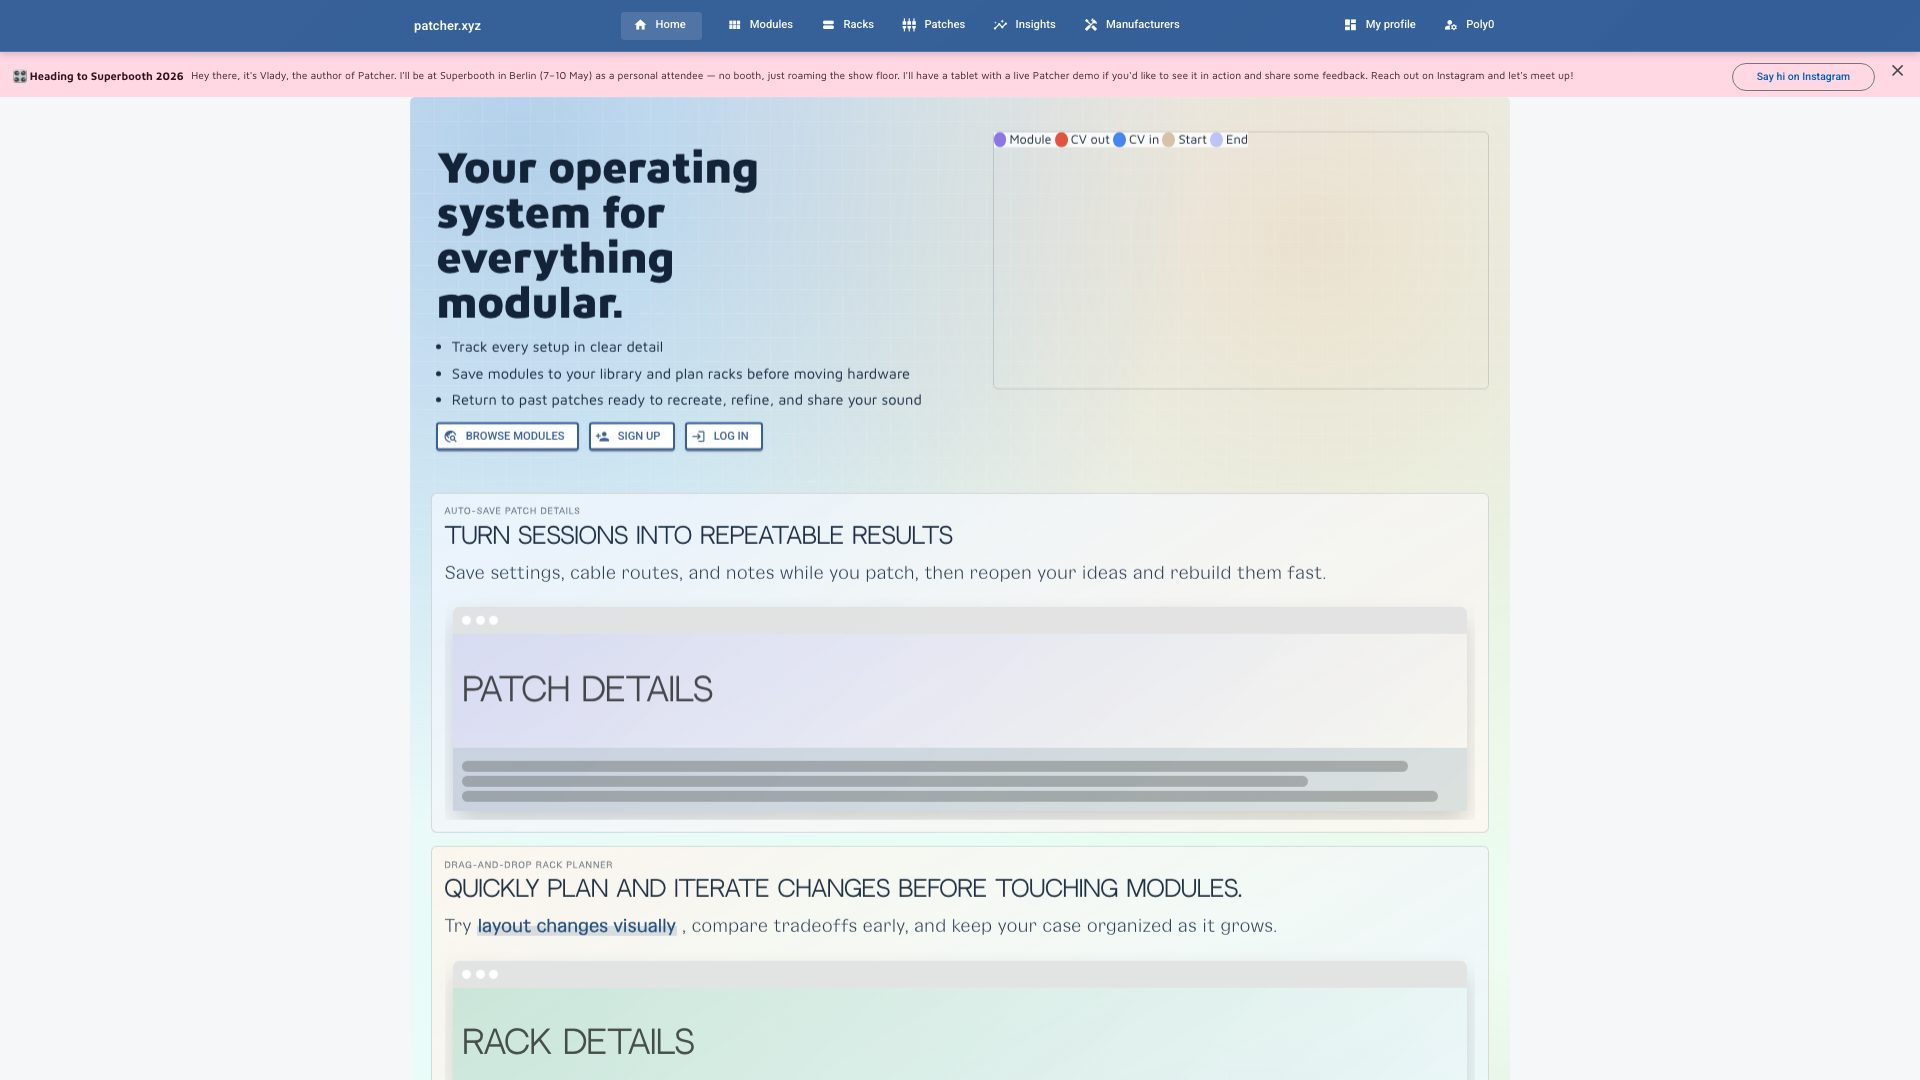
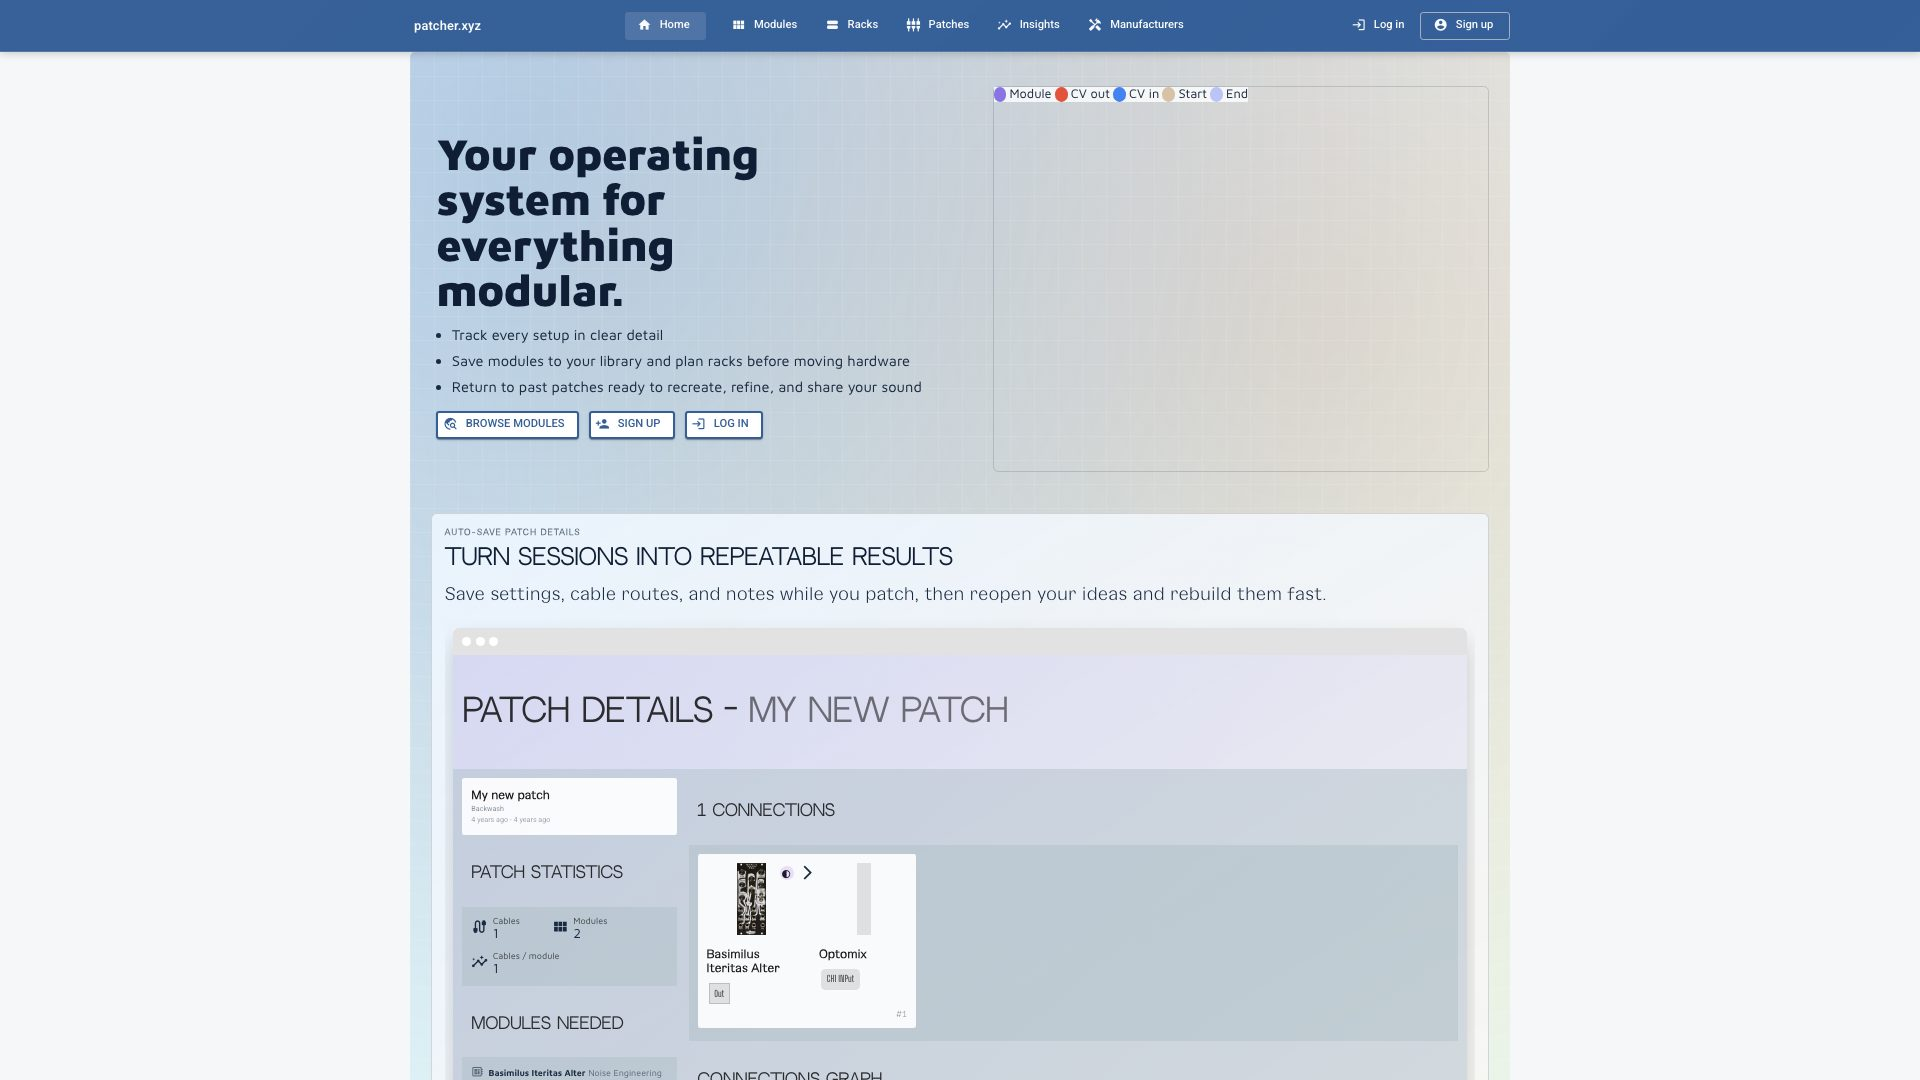
test(e2e): harden major area screenshots

diff --git a/e2e/screenshots/auth-major-area-screenshots.spec.ts b/e2e/screenshots/auth-major-area-screenshots.spec.ts
@@ -2,6 +2,7 @@ import fs from 'node:fs';
 import path from 'node:path';
 import {
   expect,
+  type BrowserContext,
   type Page,
   test
 } from '@playwright/test';
@@ -17,16 +18,143 @@ const DESKTOP_VIEWPORT = {
   height: 1080
 };
 const SCREENSHOT_DELAY_MS = 120;
+const DEFAULT_SUPABASE_URL = 'https://sozmatmywjpstwidzlss.supabase.co';
+const DEFAULT_SUPABASE_ANON_KEY =
+  'eyJhbGciOiJIUzI1NiIsInR5cCI6IkpXVCJ9.eyJyb2xlIjoiYW5vbiIsImlhdCI6MTYxODA4NDU1OCwiZXhwIjoxOTMzNjYwNTU4fQ.3pSLsqyaCAGgISvOrHMt2CIX9hQowty2r8etzMwlpy8';
+const SCREENSHOT_MOTION_STYLE = `
+  *,
+  *::before,
+  *::after {
+    animation-delay: -1ms !important;
+    animation-duration: 1ms !important;
+    animation-iteration-count: 1 !important;
+    transition-delay: 0s !important;
+    transition-duration: 0s !important;
+    caret-color: transparent !important;
+    scroll-behavior: auto !important;
+  }
+`;
+let publicConnectedPatchIdPromise: Promise<number> | undefined;
 
 interface ScreenshotTarget {
   fileName: string;
   prepare: (page: Page) => Promise<void>;
   focusSelector: string;
   settleDelayMs?: number;
+  authenticated?: boolean;
 }
 
 function ensureOutputDir(): void {
   fs.mkdirSync(OUTPUT_DIR, {recursive: true});
+}
+
+async function installScreenshotMode(page: Page): Promise<void> {
+  await page.addInitScript((styleText: string) => {
+    const install = () => {
+      if (document.querySelector('style[data-screenshot-mode="true"]')) {
+        return;
+      }
+
+      const style = document.createElement('style');
+      style.dataset['screenshotMode'] = 'true';
+      style.textContent = styleText;
+      document.head.appendChild(style);
+    };
+
+    if (document.readyState === 'loading') {
+      document.addEventListener('DOMContentLoaded', install, {once: true});
+      return;
+    }
+
+    install();
+  }, SCREENSHOT_MOTION_STYLE);
+}
+
+async function getPublicConnectedPatchId(): Promise<number> {
+  if (!publicConnectedPatchIdPromise) {
+    publicConnectedPatchIdPromise = (async () => {
+      const supabaseUrl = (process.env['SUPABASE_URL'] || DEFAULT_SUPABASE_URL).replace(/\/+$/, '');
+      const supabaseAnonKey = process.env['SUPABASE_ANON_KEY'] || DEFAULT_SUPABASE_ANON_KEY;
+      const query = new URLSearchParams({
+        select: 'patchid,patch:patches!patch_connections_patchid_fkey!inner(id,public)',
+        'patch.public': 'eq.true',
+        limit: '1'
+      });
+
+      const response = await fetch(`${ supabaseUrl }/rest/v1/patch_connections?${ query.toString() }`, {
+        headers: {
+          apikey: supabaseAnonKey,
+          Authorization: `Bearer ${ supabaseAnonKey }`
+        }
+      });
+
+      if (!response.ok) {
+        throw new Error(`Failed to fetch public connected patch (${ response.status })`);
+      }
+
+      const rows = await response.json() as Array<{patchid?: number}>;
+      const patchId = rows.find(row => typeof row.patchid === 'number')?.patchid;
+      if (!patchId) {
+        throw new Error('No public patch with saved connections was found for the home screenshot.');
+      }
+
+      return patchId;
+    })();
+  }
+
+  return publicConnectedPatchIdPromise;
+}
+
+async function setHomeHeroPatch(page: Page, patchId: number): Promise<void> {
+  await page.waitForTimeout(1_200);
+  await page.evaluate((resolvedPatchId: number) => {
+    const ng = (window as {ng?: {getComponent?: (element: Element) => any}}).ng;
+    if (!ng?.getComponent) {
+      throw new Error('Angular debug API unavailable');
+    }
+
+    const homeRoot = document.querySelector('app-home');
+    if (!homeRoot) {
+      throw new Error('Home component not found');
+    }
+
+    const component = ng.getComponent(homeRoot);
+    component.patchDetailDataService.updateSinglePatchData$.next(resolvedPatchId);
+  }, patchId);
+}
+
+async function revealHomeHeroGraph(page: Page): Promise<void> {
+  await page.waitForFunction(
+    () => {
+      const ng = (window as {ng?: {getComponent?: (element: Element) => any}}).ng;
+      const patchGraphHost = document.querySelector('app-home-experience-hero .patch-graph-shell app-patch-graph');
+      const graphHost = document.querySelector('app-home-experience-hero .patch-graph-shell lib-graph');
+      if (!ng?.getComponent || !patchGraphHost || !graphHost) {
+        return false;
+      }
+
+      const patchGraphComponent = ng.getComponent(patchGraphHost);
+      const graphComponent = ng.getComponent(graphHost);
+      const hasGraphData = (patchGraphComponent?.nodes$?.value?.length ?? 0) > 0;
+      if (!hasGraphData || !graphComponent) {
+        return false;
+      }
+
+      graphComponent.loaded = true;
+      graphComponent.cd?.detectChanges?.();
+      graphComponent.renderer?.resize?.();
+      graphComponent.renderer?.refresh?.();
+
+      const invisibleContainer = graphHost.querySelector('.invisible');
+      if (invisibleContainer instanceof HTMLElement) {
+        invisibleContainer.classList.remove('invisible');
+      }
+
+      return !graphHost.textContent?.includes('Graph loading...');
+    },
+    undefined,
+    {timeout: 20_000}
+  );
 }
 
 async function captureViewport(
@@ -67,6 +195,12 @@ async function centerElementOnViewport(page: Page, selector: string): Promise<vo
 async function waitForScreenshotReady(page: Page, focusSelector: string): Promise<void> {
   await page.waitForLoadState('domcontentloaded');
   await expect(page.locator(focusSelector).first()).toBeVisible({timeout: 20_000});
+
+  await page.waitForFunction(
+    () => document.getAnimations().every(animation => animation.playState !== 'running'),
+    undefined,
+    {timeout: 20_000}
+  );
 
   await page.waitForFunction(
     () => !document.fonts || document.fonts.status === 'loaded',
@@ -171,9 +305,16 @@ async function waitForScreenshotReady(page: Page, focusSelector: string): Promis
 }
 
 async function prepareHome(page: Page): Promise<void> {
+  const patchId = await getPublicConnectedPatchId();
   await page.goto('/home');
   await expect(page).toHaveURL(/\/home/, {timeout: 20_000});
   await expect(page.locator('main.home-page h1').first()).toBeVisible({timeout: 20_000});
+  await expect(page.getByRole('link', {name: /sign up/i}).first()).toBeVisible({timeout: 20_000});
+  await expect(page.getByRole('link', {name: /log in/i}).first()).toBeVisible({timeout: 20_000});
+  await expect(page.getByRole('link', {name: /my profile/i})).toHaveCount(0);
+  await setHomeHeroPatch(page, patchId);
+  await expect(page.locator('app-home-experience-hero .patch-graph-shell lib-graph').first()).toBeVisible({timeout: 20_000});
+  await revealHomeHeroGraph(page);
 }
 
 async function prepareModuleBrowser(page: Page): Promise<void> {
@@ -214,6 +355,7 @@ async function prepareUserArea(page: Page): Promise<void> {
   await expect(page.getByRole('textbox', {name: /search modules, racks, patches/i}).first()).toBeVisible({
     timeout: 20_000
   });
+  await expect(page.locator('app-user-modules, app-user-racks, app-user-patches').first()).toBeVisible({timeout: 20_000});
 }
 
 async function prepareRackDetailsEditingCentered(page: Page): Promise<void> {
@@ -222,14 +364,20 @@ async function prepareRackDetailsEditingCentered(page: Page): Promise<void> {
 }
 
 const SCREENSHOT_TARGETS: ScreenshotTarget[] = [
-  {fileName: '01-home.jpg', prepare: prepareHome, focusSelector: 'main.home-page h1'},
+  {
+    fileName: '01-home.jpg',
+    prepare: prepareHome,
+    focusSelector: 'app-home-experience-hero .patch-graph-shell lib-graph',
+    settleDelayMs: 15_000,
+    authenticated: false
+  },
   {fileName: '02-modules.jpg', prepare: prepareModuleBrowser, focusSelector: 'app-module-minimal, app-empty-state'},
   {fileName: '03-module-details.jpg', prepare: prepareModuleDetails, focusSelector: 'app-module-composite'},
   {fileName: '04-patches.jpg', prepare: preparePatchBrowser, focusSelector: 'app-patch-micro, app-empty-state'},
   {fileName: '05-patch-details.jpg', prepare: preparePatchDetailsEditing, focusSelector: 'app-patch-composite'},
   {fileName: '06-racks.jpg', prepare: prepareRackBrowser, focusSelector: 'app-rack-micro, app-empty-state'},
   {fileName: '07-rack-details.jpg', prepare: prepareRackDetailsEditingCentered, focusSelector: 'app-rack-composite'},
-  {fileName: '08-user-area.jpg', prepare: prepareUserArea, focusSelector: 'app-user-area-root'}
+  {fileName: '08-user-area.jpg', prepare: prepareUserArea, focusSelector: 'app-user-area-root', settleDelayMs: 1_500}
 ];
 
 test.describe('Major area screenshot automation', () => {
@@ -237,10 +385,32 @@ test.describe('Major area screenshot automation', () => {
   test.describe.configure({mode: 'parallel'});
   
   for (const target of SCREENSHOT_TARGETS) {
-    test(`captures ${ target.fileName }`, async ({page}) => {
+    test(`captures ${ target.fileName }`, async ({page, browser, baseURL}) => {
       ensureOutputDir();
-      await target.prepare(page);
-      await captureViewport(page, target.fileName, target.focusSelector, target.settleDelayMs);
+      let detachedContext: BrowserContext | undefined;
+      let capturePage = page;
+
+      if (target.authenticated === false) {
+        detachedContext = await browser.newContext({
+          viewport: DESKTOP_VIEWPORT,
+          baseURL: baseURL ?? 'http://localhost:5556',
+          reducedMotion: 'reduce',
+          serviceWorkers: 'block',
+          storageState: {
+            cookies: [],
+            origins: []
+          }
+        });
+        capturePage = await detachedContext.newPage();
+      }
+
+      try {
+        await installScreenshotMode(capturePage);
+        await target.prepare(capturePage);
+        await captureViewport(capturePage, target.fileName, target.focusSelector, target.settleDelayMs);
+      } finally {
+        await detachedContext?.close();
+      }
     });
   }
 });
